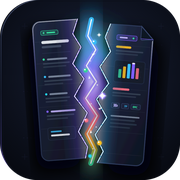
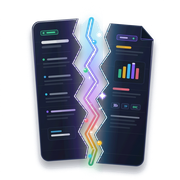
feat: implement stage 1 product input form and layout header components

diff --git a/src/pages/Stage1_ProductInput.tsx b/src/pages/Stage1_ProductInput.tsx
@@ -130,12 +130,12 @@ export const Stage1_ProductInput: React.FC = () => {
 
         {/* Hero Section */}
         <div className="text-center max-w-xl mb-8 flex flex-col items-center">
-          <div className="mb-4 relative group">
-            <div className="absolute -inset-1.5 bg-gradient-to-r from-[#4355B9] via-[#2563EB] to-[#107C41] rounded-2xl blur-md opacity-25 group-hover:opacity-40 transition duration-500" />
+          <div className="mb-4 relative group flex items-center justify-center">
+            <div className="absolute -inset-2 bg-gradient-to-r from-[#4355B9]/20 via-[#2563EB]/15 to-[#107C41]/20 rounded-full blur-xl opacity-60 group-hover:opacity-90 transition duration-500 pointer-events-none" />
             <img
               src="/icon.png"
               alt="Product Discovery & Teardown Studio"
-              className="relative w-16 h-16 rounded-2xl object-contain shadow-lg ring-1 ring-black/5"
+              className="relative w-18 h-18 object-contain drop-shadow-[0_12px_24px_rgba(67,85,185,0.22)] group-hover:scale-105 transition-all duration-300 select-none"
             />
           </div>
           <h1 className="text-3xl sm:text-4xl font-extrabold tracking-tight text-[#1A202C] mb-3">

diff --git a/src/components/layout/Header.tsx b/src/components/layout/Header.tsx
@@ -20,11 +20,11 @@ export const Header: React.FC = () => {
             aria-label="Product Discovery & Teardown Studio Home"
             className="flex items-center gap-2.5 shrink-0 group focus:outline-none focus:ring-2 focus:ring-[#4355B9] rounded-lg p-1"
           >
-            <div className="relative shrink-0">
+            <div className="relative shrink-0 flex items-center justify-center">
               <img
                 src="/icon.png"
                 alt="Product Discovery & Teardown Studio"
-                className="w-8 h-8 rounded-lg object-contain shadow-[0_2px_8px_rgba(67,85,185,0.25)] group-hover:shadow-[0_4px_12px_rgba(67,85,185,0.35)] group-hover:scale-105 transition-all"
+                className="w-8 h-8 object-contain drop-shadow-[0_2px_6px_rgba(67,85,185,0.25)] group-hover:drop-shadow-[0_4px_10px_rgba(67,85,185,0.35)] group-hover:scale-105 transition-all select-none"
               />
             </div>
             <div className="flex flex-col">
